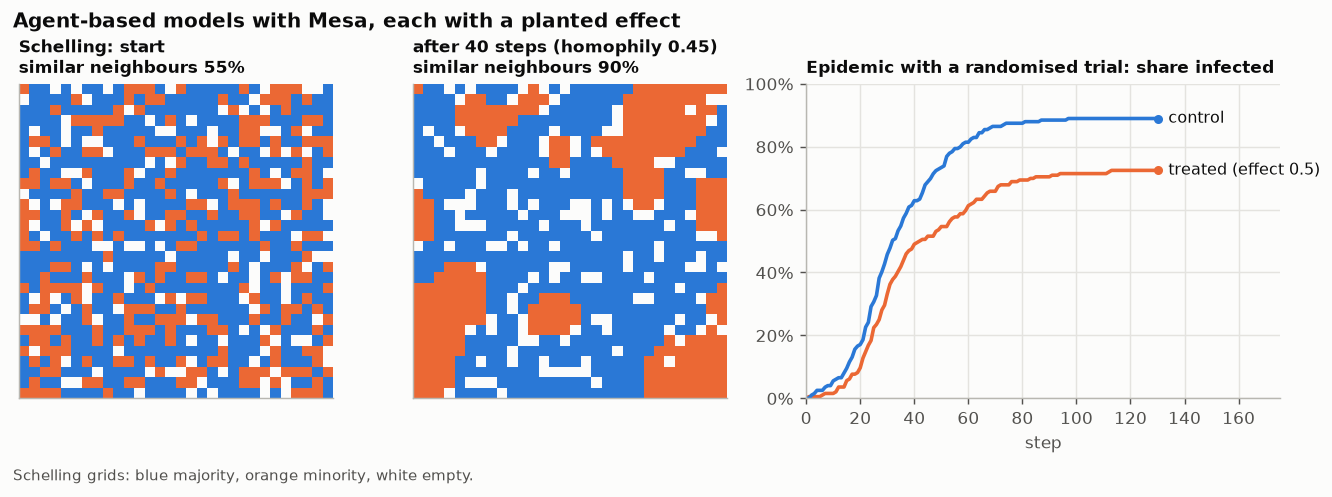
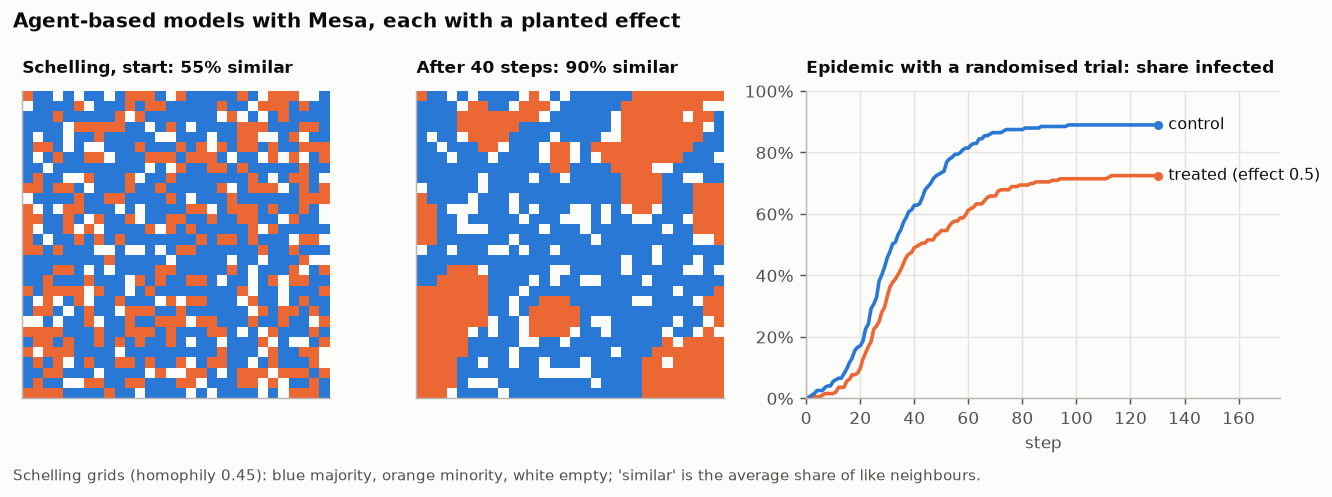
Survive kaleido 1.5.1 and tidy the README figures
kaleido 1.5.1 (12 November) sometimes runs a figure before its page
script has loaded ("ReferenceError: kaleido_scopes is not defined"),
which failed the SVG export tests on the Ubuntu and Windows runners.

- Exclude kaleido 1.5.1 from the extras and requirements.txt.
- Retry each static export once; when it still fails, write the other
  plots and raise one error naming the files (the engine logs it in the
  run record, as before). sds doctor warns about kaleido 1.5.1.
- Tests for the retry and for a run whose static exports all fail.
- README figures: panel titles keep clear of the images (field
  operators, Schelling grids) and stay within their panels; the
  simulation-study labels keep clear of their intervals.

diff --git a/scidatasim/visualization.py b/scidatasim/visualization.py
@@ -30,6 +30,26 @@ def _plotly():
         return None
     return px, go
 
+
+def _write_static(fig, path: str, static_format: str, failed: List[str], attempts: int = 2) -> bool:
+    """Write a static image of a plotly figure through kaleido and Chrome.
+
+    That route can fail for reasons outside the simulator: Chrome missing, or a race in kaleido
+    (1.5.1 sometimes ran a figure before its page script had loaded). The data and the HTML plot
+    are already written by then, so retry once, then note the file in ``failed`` and go on with
+    the other plots; ``generate_plots`` reports the failures together at the end.
+    """
+    error = None
+    for _ in range(attempts):
+        try:
+            fig.write_image(path, format=static_format)
+            return True
+        except Exception as e:  # kaleido raises RuntimeError subclasses; report, do not lose the run
+            error = e
+    failed.append(f"{os.path.basename(path)} ({type(error).__name__}: {str(error).strip()[:200]})")
+    return False
+
+
 def generate_plots(results: Dict[str, Dict[str, Any]], output_dir: str, static_format: str = "svg"):
     """
     Generates plots based on the results and their DataDescriptors.
@@ -45,6 +65,8 @@ def generate_plots(results: Dict[str, Dict[str, Any]], output_dir: str, static_f
         raise ValueError(f"Invalid static_format: {static_format}.  Must be one of None, 'svg', 'pdf', 'png', 'jpeg', 'webp'.")
 
 
+    failed: List[str] = []  # static exports that did not succeed
+
     # Group data items by their 'group' field
     grouped_data: Dict[str, List[Dict[str, Any]]] = {}
     for data_name, data_info in results.items():
@@ -55,7 +77,7 @@ def generate_plots(results: Dict[str, Dict[str, Any]], output_dir: str, static_f
 
     for group_name, data_list in grouped_data.items():
         if group_name == "time_series":
-            _time_series_plot(results, group_name, data_list, output_dir, static_format)
+            _time_series_plot(results, group_name, data_list, output_dir, static_format, failed)
 
         elif group_name == 'histogram':
             # Matplotlib
@@ -91,16 +113,20 @@ def generate_plots(results: Dict[str, Dict[str, Any]], output_dir: str, static_f
                               opacity=0.7) # transparency
             fig.write_html(os.path.join(output_dir, f"{group_name}_plotly.html"))
             if static_format:
-                # Explicitly set mathjax to None when using a static renderer
-                fig.write_image(os.path.join(output_dir, f"{group_name}_plotly.{static_format}"), format=static_format)
+                _write_static(fig, os.path.join(output_dir, f"{group_name}_plotly.{static_format}"),
+                              static_format, failed)
 
         # Add support for other groups as needed
 
     # Add combined plot for Predator-Prey (and similar scenarios)
     if "prey_population" in results and "predator_population" in results:
-        _generate_combined_plot(results, output_dir, static_format) # Pass static_format
+        _generate_combined_plot(results, output_dir, static_format, failed)
 
-def _time_series_plot(results, group_name, data_list, output_dir, static_format):
+    if failed:
+        raise RuntimeError("static plot export failed for " + "; ".join(failed)
+                           + ". The data and the other plots are written; `sds doctor` checks kaleido and Chrome.")
+
+def _time_series_plot(results, group_name, data_list, output_dir, static_format, failed):
     """Plot each line/scatter series of the group against its own x axis
     (``descriptor.x_axis``, default ``time``). Observed series that were
     sampled at a subset of points carry their own coordinate, so latent and
@@ -159,11 +185,13 @@ def _time_series_plot(results, group_name, data_list, output_dir, static_format)
                       yaxis_title="Value", legend_title_text="Series")
     fig.write_html(os.path.join(output_dir, f"{group_name}_plotly.html"))
     if static_format:
-        fig.write_image(os.path.join(output_dir, f"{group_name}_plotly.{static_format}"), format=static_format)
+        _write_static(fig, os.path.join(output_dir, f"{group_name}_plotly.{static_format}"), static_format, failed)
 
 
-def _generate_combined_plot(results: Dict[str, Dict[str, Any]], output_dir: str, static_format: str = "svg"):
+def _generate_combined_plot(results: Dict[str, Dict[str, Any]], output_dir: str, static_format: str = "svg",
+                            failed: List[str] = None):
     """Generates a combined plot of prey and predator populations."""
+    failed = [] if failed is None else failed
 
     # Matplotlib
     figure = Figure()
@@ -210,5 +238,5 @@ def _generate_combined_plot(results: Dict[str, Dict[str, Any]], output_dir: str,
                     title="Predator-Prey Population Dynamics")
     fig.write_html(os.path.join(output_dir, "combined_populations_plotly.html"))
     if static_format:
-      # Explicitly set mathjax to None when using a static renderer
-      fig.write_image(os.path.join(output_dir, f"combined_populations_plotly.{static_format}"), format=static_format)
+        _write_static(fig, os.path.join(output_dir, f"combined_populations_plotly.{static_format}"),
+                      static_format, failed)

diff --git a/tools/make_readme_figures.py b/tools/make_readme_figures.py
@@ -124,7 +124,7 @@ def series_operators():
         if limit is not None:
             ax.axhline(limit, color=ORANGE, lw=1.2, ls=(0, (4, 2)))
             ax.text(9.9, limit - 0.15, "limit", color=INK2, fontsize=8, ha="right", va="top")
-        ax.set_title(title, fontsize=9.5)
+        ax.set_title(title, fontsize=9.5, pad=10)
     axes[0, 0].text(6.6, 1.0, "grey: exact\nblue: observed", color=INK2, fontsize=8)
     fig.suptitle("The measurement model: the same exact series, observed six ways", x=0.01, ha="left",
                  fontweight="bold", fontsize=11)
@@ -143,14 +143,14 @@ def field_operators():
         exact += 0.85 * np.exp(-((xx - cx) ** 2 + (yy - cy) ** 2) / (2 * r ** 2))
     panels = [
         ("Exact field", []),
-        ("Point-spread blur (sigma 2 px)", [{"type": "psf_blur", "sigma": 2.0}]),
-        ("Camera: photon and read noise, 8 bit", [{"type": "detector", "scale": 60, "read_noise": 4, "bits": 8}]),
-        ("Vignetting and misregistration", [{"type": "vignetting", "strength": 0.45},
-                                           {"type": "shift", "dx": 6.5, "dy": -4.0}]),
+        ("Blur, sigma 2 px", [{"type": "psf_blur", "sigma": 2.0}]),
+        ("Photon + read noise, 8 bit", [{"type": "detector", "scale": 60, "read_noise": 4, "bits": 8}]),
+        ("Vignetting + shift", [{"type": "vignetting", "strength": 0.45},
+                                {"type": "shift", "dx": 6.5, "dy": -4.0}]),
         ("Binned 4 x 4", [{"type": "bin", "factor": 4}]),
         ("Dead and hot pixels", [{"type": "missing", "rate": 0.02}, {"type": "outliers", "rate": 0.01, "scale": 8}]),
     ]
-    fig = Figure(figsize=(8.2, 5.9))
+    fig = Figure(figsize=(8.2, 6.3))
     axes = fig.subplots(2, 3)
     cmap = SEQUENTIAL.copy()
     cmap.set_bad("#e34948")
@@ -159,7 +159,7 @@ def field_operators():
         data = exact if not ops else apply_observation(results, {"targets": ["u"], "operators": ops},
                                                        np.random.default_rng(3))[0]["u_observed"]["data"]
         ax.imshow(np.ma.masked_invalid(data), cmap=cmap, vmin=0, vmax=1.1, interpolation="nearest")
-        ax.set_title(title, fontsize=9.5)
+        ax.set_title(title, fontsize=9.5, pad=10)
         ax.set_xticks([])
         ax.set_yticks([])
         ax.grid(False)
@@ -167,7 +167,7 @@ def field_operators():
             side.set_visible(False)
     fig.suptitle("Fields are observed like a camera sees them (dead pixels in red)", x=0.01, ha="left",
                  fontweight="bold", fontsize=11)
-    fig.tight_layout()
+    fig.tight_layout(h_pad=2.2, w_pad=1.2)  # room between a panel's title and the image above it
     save(fig, "field_operators.png")
 
 
@@ -209,11 +209,11 @@ def agent_based():
     fig = Figure(figsize=(10.5, 3.6))
     gs = fig.add_gridspec(1, 3, width_ratios=[1, 1, 1.5])
     groups = ListedColormap([SURFACE, BLUE, ORANGE])
-    for i, (sim, title) in enumerate(((seg0, "Schelling: start"), (seg, "after 40 steps (homophily 0.45)"))):
+    for i, (sim, title) in enumerate(((seg0, "Schelling, start"), (seg, "After 40 steps"))):
         ax = fig.add_subplot(gs[0, i])
         ax.imshow(sim.results["grid"]["data"] + 1, cmap=groups, vmin=0, vmax=2, interpolation="nearest")
         share = sim.results["segregation"]["data"][-1]
-        ax.set_title(f"{title}\nsimilar neighbours {share:.0%}", fontsize=9.5)
+        ax.set_title(f"{title}: {share:.0%} similar", fontsize=9.5, pad=10)
         ax.set_xticks([])
         ax.set_yticks([])
         ax.grid(False)
@@ -229,10 +229,11 @@ def agent_based():
     ax.set_ylim(0, 1)
     ax.yaxis.set_major_formatter(matplotlib.ticker.PercentFormatter(1.0))
     ax.set_xlabel("step")
-    ax.set_title("Epidemic with a randomised trial: share infected", fontsize=9.5)
+    ax.set_title("Epidemic with a randomised trial: share infected", fontsize=9.5, pad=10)
     fig.suptitle("Agent-based models with Mesa, each with a planted effect", x=0.01, ha="left",
                  fontweight="bold", fontsize=11)
-    fig.text(0.01, -0.02, "Schelling grids: blue majority, orange minority, white empty.", color=INK2, fontsize=8.5)
+    fig.text(0.01, -0.02, "Schelling grids (homophily 0.45): blue majority, orange minority, white empty; "
+             "'similar' is the average share of like neighbours.", color=INK2, fontsize=8.5)
     fig.tight_layout()
     save(fig, "agent_based.png")
 
@@ -272,7 +273,7 @@ def simulation_study():
     for name in methods:  # direct labels on the third row, where the estimators are far apart
         part = row[row["method"] == name]
         b, m = float(part["bias"].iloc[0]), float(part["bias_mcse"].iloc[0])
-        ax.annotate(name, (b - 1.96 * m, 2 + offsets[name]), xytext=(-6, 0), textcoords="offset points",
+        ax.annotate(name, (b - 1.96 * m, 2 + offsets[name]), xytext=(-10, 0), textcoords="offset points",
                     va="center", ha="right", fontsize=8, color=INK)
     ax.text(0.0, -0.62, " no bias", color=INK2, fontsize=8, va="bottom")
     save(fig, "simulation_study.png")

diff --git a/tests/test_visualization.py b/tests/test_visualization.py
@@ -215,3 +215,46 @@ def test_plots_without_plotly(tmp_path):
     files = set(os.listdir(tmp_path))
     assert {"time_series_matplotlib.png", "histogram_matplotlib.png"} <= files
     assert not any(f.endswith(".html") for f in files)
+
+
+class _FlakyFigure:
+    """Stands in for a plotly figure whose static export fails the first ``failures`` times."""
+
+    def __init__(self, failures):
+        self.failures, self.calls = failures, 0
+
+    def write_image(self, path, format=None):
+        self.calls += 1
+        if self.calls <= self.failures:
+            raise RuntimeError("ReferenceError: kaleido_scopes is not defined")
+        with open(path, "w") as f:
+            f.write("<svg/>")
+
+
+def test_static_export_retries_once(tmp_path):
+    """kaleido 1.5.1 sometimes runs a figure before its page script has loaded; a retry recovers."""
+    from scidatasim.visualization import _write_static
+    failed = []
+    fig = _FlakyFigure(failures=1)
+    assert _write_static(fig, str(tmp_path / "a.svg"), "svg", failed)
+    assert fig.calls == 2 and failed == [] and (tmp_path / "a.svg").exists()
+    fig = _FlakyFigure(failures=5)
+    assert not _write_static(fig, str(tmp_path / "b.svg"), "svg", failed)
+    assert fig.calls == 2 and len(failed) == 1
+    assert "b.svg" in failed[0] and "kaleido_scopes" in failed[0]
+
+
+def test_failed_static_export_keeps_the_other_plots(example_results, tmp_path, monkeypatch):
+    """When every static export fails, the PNGs and HTML are still written and one error names the files."""
+    pytest.importorskip("plotly")
+    import plotly.basedatatypes as bdt
+
+    def broken(self, *args, **kwargs):
+        raise RuntimeError("no Chrome")
+
+    monkeypatch.setattr(bdt.BaseFigure, "write_image", broken)
+    with pytest.raises(RuntimeError) as err:
+        generate_plots(example_results, str(tmp_path))
+    assert "time_series_plotly.svg" in str(err.value) and "histogram_plotly.svg" in str(err.value)
+    for name in ("time_series_plotly.html", "histogram_plotly.html", "histogram_matplotlib.png"):
+        assert (tmp_path / name).exists(), name

diff --git a/scidatasim/doctor.py b/scidatasim/doctor.py
@@ -185,11 +185,21 @@ def run_checks(output_dir: str = "experiments_output", plots: bool = False) -> L
         if plots and _version("kaleido") is not None and _version("plotly") is not None:
             try:
                 import plotly.graph_objects as go
-                go.Figure(go.Scatter(y=[1, 3, 2])).write_image(os.path.join(tmp, "probe.png"))
-                checks.append(Check("static plot export", OK, "PNG written"))
+                from .visualization import _write_static
+                failed: list = []
+                fig = go.Figure(go.Scatter(y=[1, 3, 2]))
+                if not _write_static(fig, os.path.join(tmp, "probe.png"), "png", failed):
+                    raise RuntimeError(failed[0])
+                if _version("kaleido") == "1.5.1":
+                    checks.append(Check("static plot export", WARN, "PNG written, but kaleido 1.5.1 fails "
+                                        "now and then ('kaleido_scopes is not defined')",
+                                        'pip install "kaleido>=1.0,!=1.5.1"'))
+                else:
+                    checks.append(Check("static plot export", OK, "PNG written"))
             except Exception as e:
                 checks.append(Check("static plot export", WARN, f"{type(e).__name__}: {e}",
-                                    "install Chrome, or run: plotly_get_chrome"))
+                                    "install Chrome (or run: plotly_get_chrome); kaleido 1.5.1 has a "
+                                    "known race, upgrade or downgrade it"))
     return checks
 
 

diff --git a/CHANGELOG.md b/CHANGELOG.md
@@ -27,6 +27,10 @@ Second release candidate, and the first on PyPI. Breaking: the import package is
 - `scidatasim.diagnostics.approximator_baseline` and `polynomial_formula`: a polynomial fitted to each run's observations, submitted as the formula answer. If it passes, the score rewards curve fitting, not the law (a scorer loophole). Example 11 reports it under the old and the current rule.
 - `scidatasim.experiments.law_discovery.logic`: `fit_law`, `law_function`, `achievable_tolerance`; `scidatasim.expressions.compile_expression` (parse once, evaluate many times).
 
+### Fixed
+- **Static plot export no longer fails with kaleido 1.5.1.** That release (12 November) sometimes runs a figure before its page script has loaded (`ReferenceError: kaleido_scopes is not defined`), which failed SVG tests on the Ubuntu and Windows runners. The extras now exclude it (`kaleido>=1.0,!=1.5.1`), each static export is retried once, and a failure no longer stops the remaining plots: the PNGs and HTML are written and one error names the files that failed (logged in the run record, as before). `sds doctor` warns when kaleido 1.5.1 is installed.
+- README figures: panel titles no longer touch or overrun the images (field operators, Schelling grids), and the direct labels in the simulation-study figure keep clear of their intervals.
+
 ## 0.7.0rc1 (2026-11-09)
 
 Release candidate for 0.7.0, the first release since the 0.1.0 prototype.
